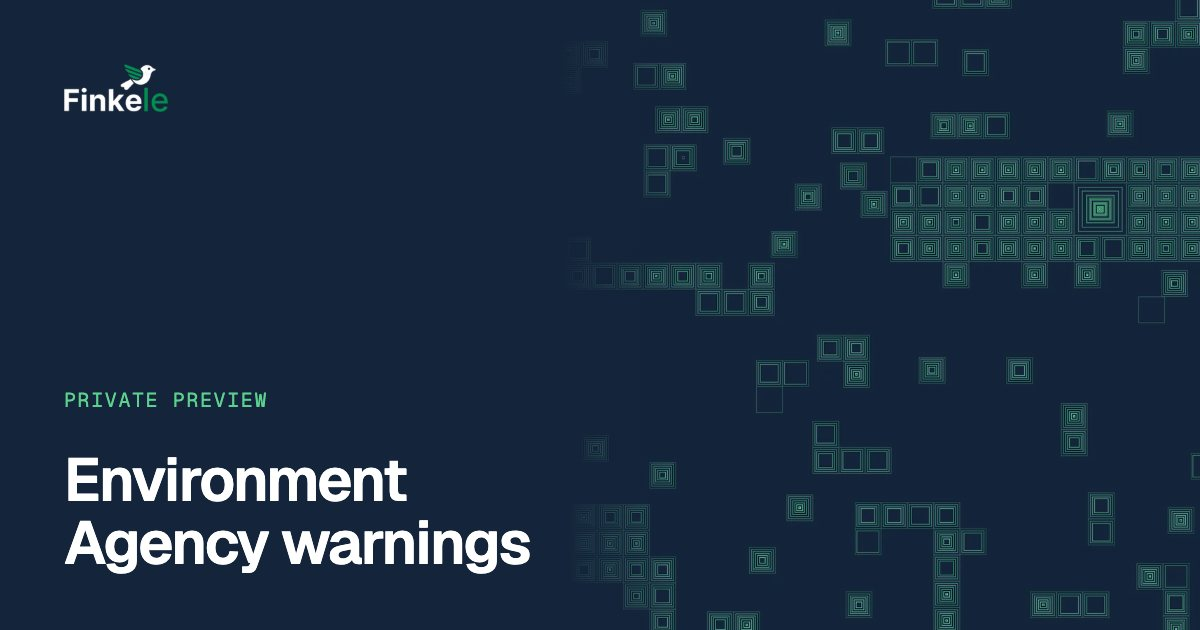
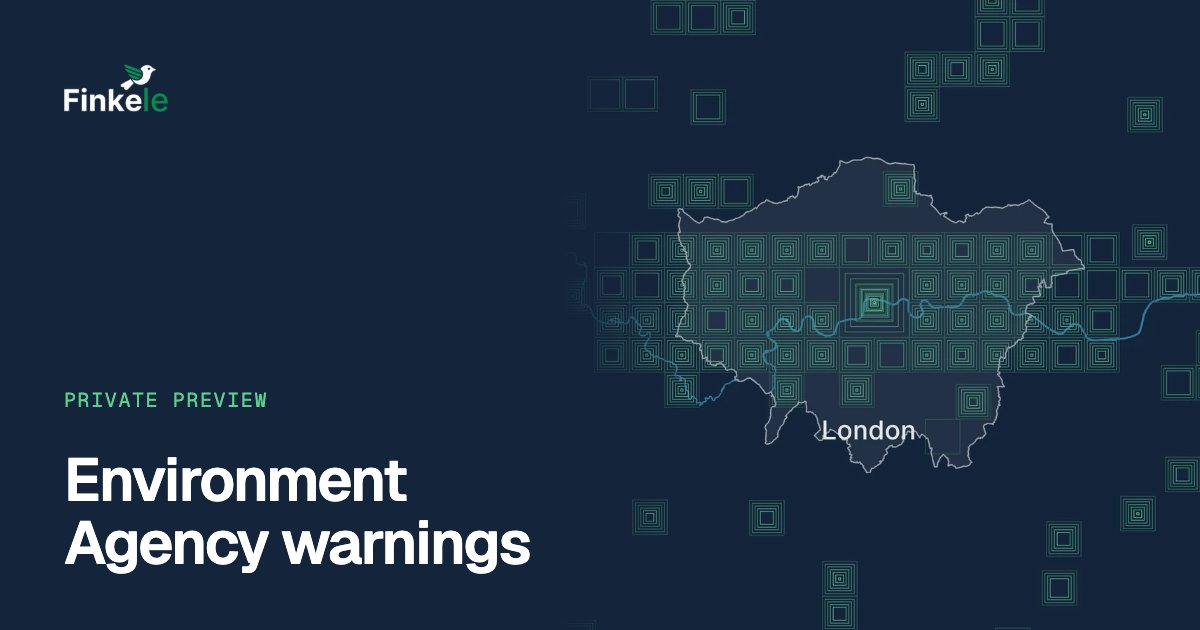
Inputs cards at four lines, evidence lines tightened, notes full width
The founder's line-count calls: the five input cards run four lines each
from 1024 to 1728 px; the inputs note and the evidence title run the full
width on one line; the evidence lede is two lines, the terrain limit one;
verification says the coverage figure waits "until that is done"; the
Manchester compare head is one line.

diff --git a/public/index.html b/public/index.html
@@ -506,31 +506,31 @@
                         <span class="input-icon" aria-hidden="true"><svg viewBox="0 0 24 24" fill="none" stroke="currentColor" stroke-width="1.6" stroke-linecap="round" stroke-linejoin="round"><path d="M2 18c3-5 5-7 8-7s4 3 7 3 3-3 5-5"/><path d="M2 22h20" opacity=".5"/></svg></span>
                         <p class="input-kicker">Ground</p>
                         <h3 class="input-title">Terrain</h3>
-                        <p>Environment Agency LiDAR on a <span class="num">1&nbsp;m</span> grid: the bare-earth ground the water runs over.</p>
+                        <p>Environment Agency LiDAR on a <span class="num">1&nbsp;m</span> grid: the bare-earth ground the water runs over, street by street.</p>
                     </li>
                     <li class="input-card reveal">
                         <span class="input-icon" aria-hidden="true"><svg viewBox="0 0 24 24" fill="none" stroke="currentColor" stroke-width="1.6" stroke-linecap="round" stroke-linejoin="round"><path d="M3 21V10l5-3v14M8 21V5l7-2v18M15 21v-9l6 2v7"/><path d="M2 21h20"/></svg></span>
                         <p class="input-kicker">On the ground</p>
                         <h3 class="input-title">Buildings</h3>
-                        <p>Ordnance Survey OpenMap Local footprints, used where a solver run models buildings, as in our replays, where they stand as solid blocks.</p>
+                        <p>Ordnance Survey footprints, as solid blocks where a solver run models buildings, as in our replays.</p>
                     </li>
                     <li class="input-card reveal">
                         <span class="input-icon" aria-hidden="true"><svg viewBox="0 0 24 24" fill="none" stroke="currentColor" stroke-width="1.6" stroke-linecap="round" stroke-linejoin="round"><path d="M7 14a4 4 0 0 1-.6-7.95A5.5 5.5 0 0 1 17 7a3.5 3.5 0 0 1 .5 7H7Z"/><path d="m8 17-1 3M12 17l-1 3M16 17l-1 3"/></svg></span>
                         <p class="input-kicker">The storm</p>
                         <h3 class="input-title">Rainfall</h3>
-                        <p>A storm's rainfall: forecast rain for coming events, rain recorded by Environment Agency gauges for replays, and design storms for scenarios.</p>
+                        <p>Forecast rain for coming storms, gauge records for replays, and design storms for scenarios.</p>
                     </li>
                     <li class="input-card reveal">
                         <span class="input-icon" aria-hidden="true"><svg viewBox="0 0 24 24" fill="none" stroke="currentColor" stroke-width="1.6" stroke-linecap="round" stroke-linejoin="round"><rect x="3" y="3" width="18" height="18" rx="2"/><path d="M9 3v18M15 3v18M3 9h18M3 15h18" opacity=".55"/><rect x="9" y="15" width="6" height="6" fill="currentColor" stroke="none" opacity=".7"/><rect x="15" y="9" width="6" height="6" fill="currentColor" stroke="none" opacity=".4"/></svg></span>
                         <p class="input-kicker">Training data</p>
                         <h3 class="input-title">Solver runs</h3>
-                        <p>Physics solver runs over many storms on real terrain: the physics-based training data the model learns from.</p>
+                        <p>Physics solver runs over many storms on real terrain: the training data our model learns from.</p>
                     </li>
                     <li class="input-card input-card--model reveal">
                         <span class="input-icon" aria-hidden="true"><svg viewBox="0 0 24 24" fill="none" stroke="currentColor" stroke-width="1.6" stroke-linecap="round" stroke-linejoin="round"><circle cx="5" cy="7" r="2"/><circle cx="5" cy="17" r="2"/><circle cx="19" cy="12" r="2"/><path d="M7 7.8 17 11M7 16.2 17 13"/></svg></span>
                         <p class="input-kicker">The model</p>
                         <h3 class="input-title">TERRA</h3>
-                        <p>Our AI model, trained on those runs. From a storm's rainfall it gives water depth in metres, with an uncertainty band.</p>
+                        <p>Our AI model, trained on those runs, gives water depth in metres, with an uncertainty band.</p>
                     </li>
                 </ul>
                 <p class="inputs-note">The forecast model's terrain is bare earth today, without buildings or flood defences. It uses rain falling on the area only, not river or coastal flow.</p>
@@ -547,9 +547,9 @@
                 <div class="info-grid">
                     <article class="info-card reveal" aria-labelledby="check-title">
                         <h3 class="info-title" id="check-title">What we check and how</h3>
-                        <p>Comparing TERRA's depths with the solver's own runs is verification. Comparing them with floods that were recorded is validation. We report the two separately.</p>
+                        <p>Comparing TERRA with the solver's own runs is verification. Comparing it with recorded floods is validation. We report the two separately.</p>
                         <ul>
-                            <li><strong>Verification.</strong> How often the solver's depth falls inside our uncertainty band. This coverage is being re-measured on the band we now ship, so we give no figure yet.</li>
+                            <li><strong>Verification.</strong> How often the physics solver's depth falls inside our uncertainty band. This coverage is being re-measured on the band we now ship, so we give no figure until that is done.</li>
                             <li><strong>Validation.</strong> Comparison with recorded floods is open work.</li>
                         </ul>
                     </article>
@@ -557,7 +557,7 @@
                         <h3 class="info-title" id="gaps-title">What it does not do yet</h3>
                         <ul>
                             <li>No return periods: each map is for a stated rainfall.</li>
-                            <li>Terrain is bare earth with buildings removed, and flood defences are not included.</li>
+                            <li>Bare-earth terrain: buildings removed, flood defences not included.</li>
                             <li>Peak depth, not the time the water arrives.</li>
                             <li>Rain falling on the area only, not river or coastal flooding.</li>
                             <li>Checking results against satellite images will come later.</li>
@@ -569,7 +569,7 @@
                 <figure class="compare reveal" aria-labelledby="cmp-manchester-title">
                     <div class="compare-head">
                         <h3 id="cmp-manchester-title">Solver and model, on a storm the model never saw</h3>
-                        <p>Verification against the solver: the same time in the same storm, from the physics solver on the left and from a research candidate model on the right.</p>
+                        <p>Verification against the solver: the same moment of the same storm, physics solver on the left, research candidate model on the right.</p>
                     </div>
                     <div class="compare-frame" data-compare>
                         <img src="assets/img/showpieces/compare-manchester-ho3-model-1600.webp" srcset="assets/img/showpieces/compare-manchester-ho3-model-800.webp 800w, assets/img/showpieces/compare-manchester-ho3-model-1600.webp 1600w" sizes="(min-width: 1300px) 1240px, calc(100vw - 64px)" width="1600" height="1000" loading="lazy" decoding="async" alt="The same view from a research candidate model: a similar pattern of blue, with the large central pond drawn shallower and smaller.">

diff --git a/public/assets/css/style.css b/public/assets/css/style.css
@@ -863,3 +863,8 @@ html.motion .reveal.is-in { opacity: 1; transform: none; }
   .section-head:has(.section-lede) > .section-title { grid-column: 1; }
   .section-head:has(.section-lede) > .section-lede { grid-column: 2; grid-row: 1 / span 2; margin-top: 0; max-width: none; }
 }
+
+/* Founder's layout calls, 2026-10-25: these run the full content width. */
+.inputs-note { max-width: none; }
+.section-head:not(:has(.section-lede)) { max-width: none; }
+.info-card > p:first-of-type { max-width: none; }
